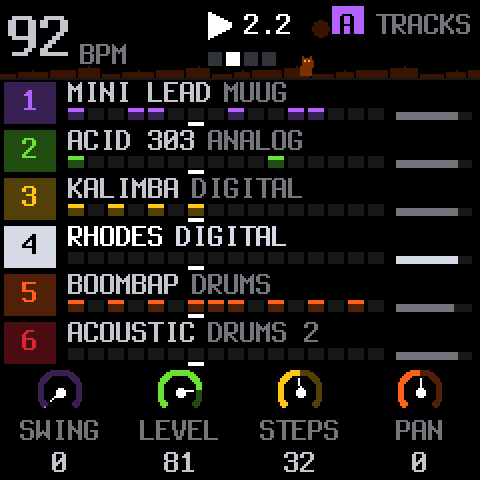
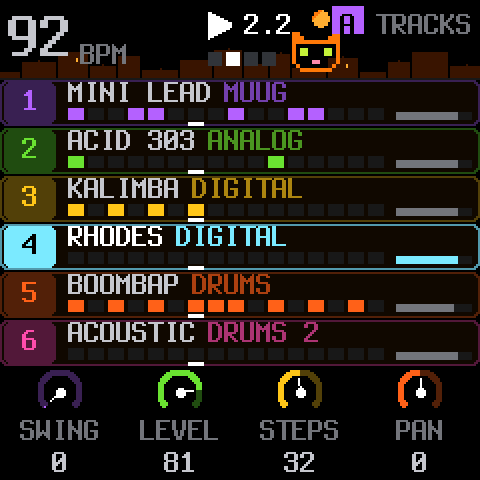
fix-24: Noche de Brujas segunda mano (gatito en cabeceras, pistas en tarjetas, filtro/envolvente con marco y area, presets con caja, paleta de 6 colores) y -Oz (14.8 KB de flash); capturas y tarjeta del Hub
Claude-Session: https://claude.ai/code/session_01GmRWd94BPN4VQ7SZUpFY9N

Changed region(s): [[0.0, 0.0, 1.0, 0.7812]]

diff --git a/CHANGELOG.md b/CHANGELOG.md
@@ -2,6 +2,16 @@
 
 Versión **2.8-kitten** (sobre SLOOP 2.8). Cada parche (`fix-NN.patch`) se aplica después de `muug.patch`.
 
+## fix-24 · Noche de Brujas, segunda mano: el aspecto de las maquetas y más flash libre
+
+- **Cabecera**: el gatito (cara con ojos y nariz) se sienta sobre el tejado en todas las barras de arriba, incluida la del menú HOME. El resto de la cabecera queda como el original.
+- **Pantalla de pistas** como en la maqueta: una tarjeta redondeada por pista, el recuadro de la pista seleccionada en su color, el motor en el color de la pista y los pasos en ese color. Siguen a la vista REC, solo, mudo, el cabezal y los cuatro diales.
+- **Envolvente y filtro** como en la maqueta: marco redondeado, área rellena bajo la curva, la etiqueta "LP 24 dB/oct" (o BP/HP y la pendiente de cada filtro) y la telaraña con arañita.
+- **Presets**: la fila elegida va dentro de una caja.
+- **Batería y secuenciador de instrumentos** como el original, con la paleta de la maqueta (golpe fantasma violeta, normal naranja, fuerte claro; pista LITE cian, batería 2 rosa). Los secuenciadores no llevan telaraña ni el mosaico: no se agrega.
+- Paleta con seis colores de pista: violeta, verde, amarillo, cian, naranja y rosa.
+- **Flash**: el compilador pasa de `-Os` a `-Oz`, que libera unos **14,8 KB** sin quitar ninguna función (el código muerto ya lo eliminaba la compilación unificada). El costo de los lazos de audio sigue bajo el presupuesto que verifican las pruebas.
+
 ## fix-23 · Noche de Brujas: tejados y telaraña en las pantallas
 
 - **Tejados** detrás de la barra de arriba de todas las pantallas: la de páginas, la grande de HOME (pistas, secuenciadores, batería) y la del menú HOME. Son tejados bajos con un gatito sentado en uno y la luna; van en el color más tenue del tema y se dibujan primero, así que no tapan nada: el texto, los íconos y las luces siguen encima, como antes.

diff --git a/.github/release/notes.md b/.github/release/notes.md
@@ -22,6 +22,7 @@
 - Se guarda con cada proyecto. La ranura USR4 queda en 76 KiB (sus últimos 4 KiB guardan la batería 2).
 - **Los FM-1 nuevos (chip de flash UC25HQ80) funcionan:** la aplicación, el rescate USB y el actualizador conocen los dos chips; se guardan los proyectos y el instalador acepta las unidades nuevas. Sin probar en una unidad nueva: contanos cómo te va.
 - **Editor web:** plantillas de patrones de batería (12 estilos x 2 variaciones: drum & bass, jungle, industrial, acid house, techno house, psy trance, hard techno, rock, heavy metal, doom metal, blues, jazz).
+- **Pantallas nuevas (Noche de Brujas):** gatito en la cabecera, pistas en tarjetas de colores, filtro y envolvente con marco y área rellena, presets con caja. Además el compilador libera ~14,8 KB de flash sin quitar funciones.
 - Además: los arreglos de SLOOP 2.8.1-2.8.4 (notas sostenidas al grabar, finales de nota limpios, UNISON abierto) y el gatito que parpadea al encender.
 
 **Instalar:** bajá `Kitten-Synths-instalador-2.8-kitten.zip`, descomprimilo, abrí `servir.py` (Python 3, Chrome o Edge) y apretá Instalar. Hacé backup antes. Manual: https://github.com/BlackKittenDevices/Kitten-Synths/blob/main/MANUAL.md

diff --git a/MANUAL.md b/MANUAL.md
@@ -371,7 +371,7 @@ La parte LITE es una pista sintetizadora más, gris, que se elige con ALGORITHM 
 
 ## 13. Menú HOME, colores y luces
 
-★ **Estética:** detrás de la barra de arriba hay tejados con un gatito y la luna, y las pantallas de envolvente y filtro llevan una telaraña con una arañita en la esquina. Son del color más tenue del tema, así que cambian con COLOR.
+★ **Estética:** detrás de la barra de arriba hay tejados con un gatito y la luna, y las pantallas de envolvente y filtro llevan una telaraña con una arañita en la esquina. Las pistas van en tarjetas redondeadas con su color (violeta, verde, amarillo, cian, naranja, rosa); el filtro y la envolvente tienen marco, área rellena y la etiqueta del filtro. Los adornos usan los tonos del tema, así que cambian con COLOR.
 
 Mantené **HOME** para abrir el menú. SELECT pasa de sección, KNOB 1–3 cambian las filas, PRESETS mueve el cursor, OCT+ cambia o abre, OCT− cierra.
 

diff --git a/MANUAL.en.md b/MANUAL.en.md
@@ -371,7 +371,7 @@ The LITE part is one more synth track, grey, chosen with ALGORITHM between track
 
 ## 13. HOME menu, colours and lights
 
-★ **Look:** behind the top bar there are rooftops with a little cat and the moon, and the envelope and filter screens carry a cobweb with a small spider in the corner. They use the theme's faintest colour, so they follow COLOR.
+★ **Look:** behind the top bar there are rooftops with a little cat and the moon, and the envelope and filter screens carry a cobweb with a small spider in the corner. The tracks sit in rounded cards in their own colour (violet, green, yellow, cyan, orange, pink); the filter and envelope have a frame, a filled area and the filter label. The decorations use the theme's tones, so they follow COLOR.
 
 Hold **HOME** to open the menu. SELECT moves between sections, KNOB 1–3 change the rows, PRESETS moves the cursor, OCT+ changes or opens, OCT− closes.
 

diff --git a/README.md b/README.md
@@ -83,7 +83,7 @@ Online, sin instalar nada: [el FM-1 en el navegador](https://blackkittendevices.
 
 | Archivo | Para qué sirve |
 | --- | --- |
-| `muug.patch` y `fix-01.patch` … `fix-23.patch` | Todo lo que Kitten Synths agrega a SLOOP 2.8, en orden. Se aplican sobre un commit fijo de SLOOP. |
+| `muug.patch` y `fix-01.patch` … `fix-24.patch` | Todo lo que Kitten Synths agrega a SLOOP 2.8, en orden. Se aplican sobre un commit fijo de SLOOP. |
 | `.github/workflows/build.yml` | Baja SLOOP, aplica los parches, corre los tests y compila con la cadena de herramientas de JieLi. |
 | `servir.py` | Sirve el instalador y el simulador en tu computadora. |
 | `splashes y logos/` | Las imágenes del gatito (bienvenida, ojos abiertos y cerrados). |

diff --git a/README.en.md b/README.en.md
@@ -69,7 +69,7 @@ Kitten Synths meets the requirements of [The FM-1 Firmware Hub](https://thefirmw
 
 | File | What it is for |
 | --- | --- |
-| `muug.patch` and `fix-01.patch` … `fix-23.patch` | Everything Kitten Synths adds to SLOOP 2.8, in order, applied to a pinned SLOOP commit. |
+| `muug.patch` and `fix-01.patch` … `fix-24.patch` | Everything Kitten Synths adds to SLOOP 2.8, in order, applied to a pinned SLOOP commit. |
 | `.github/workflows/build.yml` | Fetches SLOOP, applies the patches, runs the tests, builds with JieLi's toolchain and publishes the site. |
 | `servir.py` | Serves the installer and the simulator on your computer. |
 | `splashes y logos/` | The kitten pictures (welcome, eyes open and closed). |
